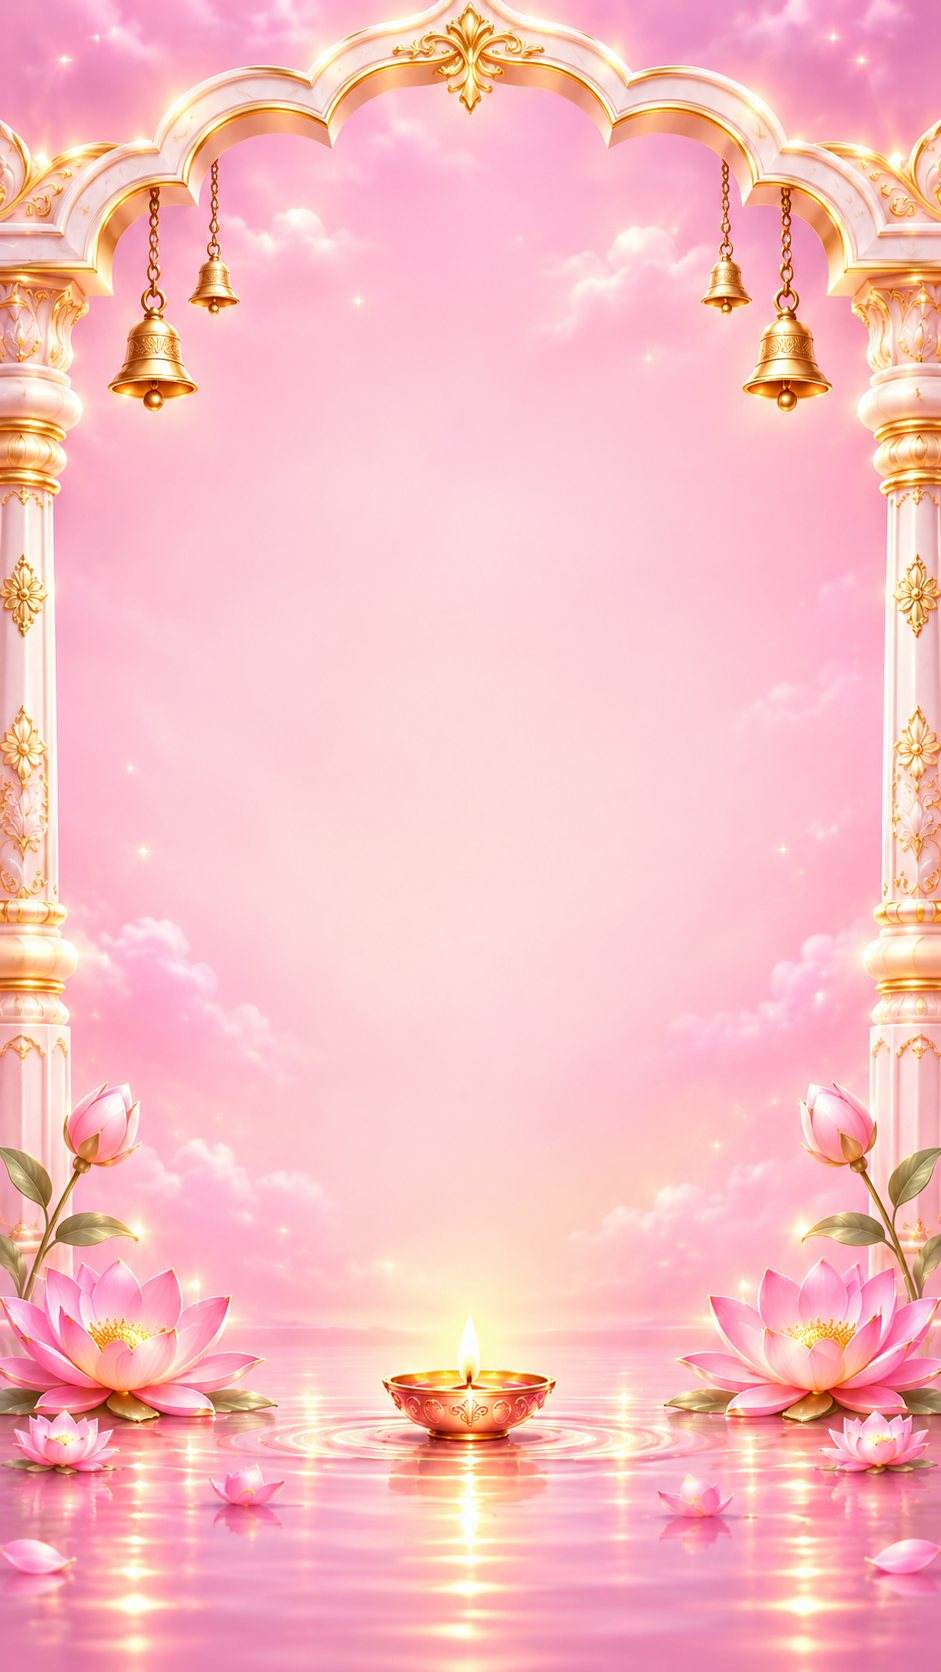
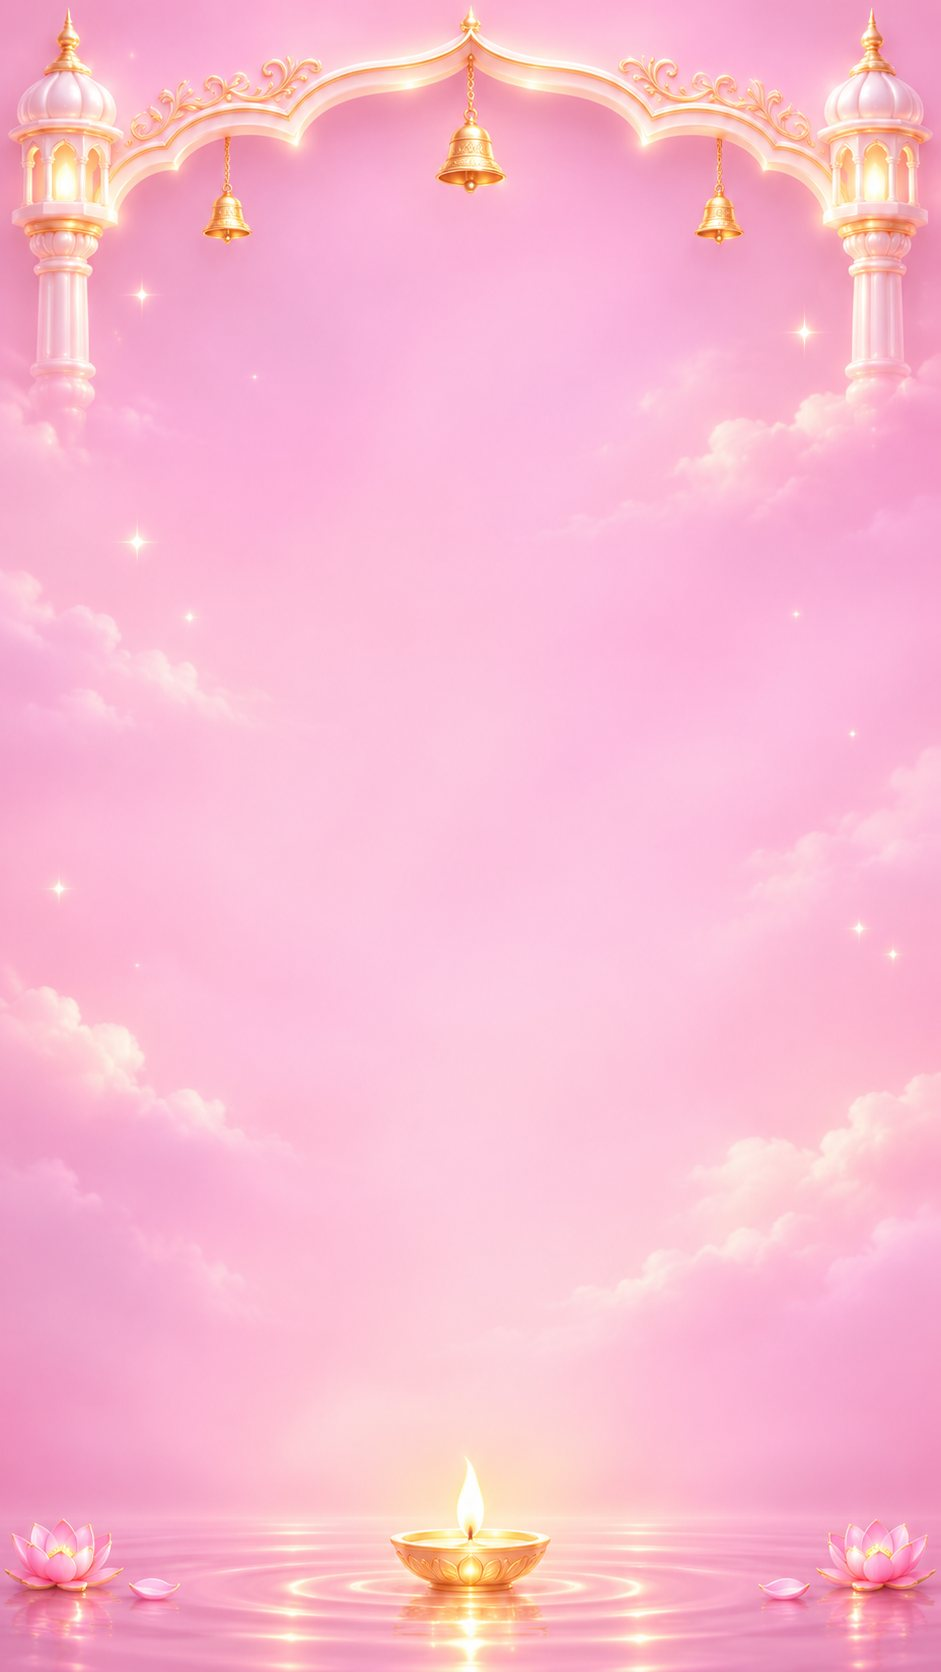
નવું બેકગ્રાઉન્ડ, સ્ક્રીન પ્રમાણે મોટી ફ્રેમ, એક દિવસે ઘણા જન્મદિવસ માટે સ્લાઇડ
Claude-Session: https://claude.ai/code/session_01Qxn7f5UeCfqQK63dvwyw3h

diff --git a/index.html b/index.html
@@ -210,13 +210,13 @@ textarea.inp{min-height:120px;resize:vertical;line-height:1.5}
     <img class="deco" src="lotus.png" alt="" data-b="40,318,150,105"><img class="deco" src="lotus.png" alt="" data-b="751,318,150,105" style="transform:scaleX(-1)">
     <div class="big-t" data-b="40,222,861,100" data-fs="74">જન્મદિન મંગલોત્સવ</div>
     <img class="deco" src="divider.png" alt="" data-b="280,318,381,41">
-    <div class="card" data-b="24,380,893,1118"></div>
+    <div class="card" id="hCard" data-b="24,380,893,1118"></div>
     <div id="lbl"></div>
     <button class="photo" id="hPhoto" aria-label="ફટાકડા" data-b="244,586,440,440"></button>
-    <img class="deco" src="frame.png" alt="" data-b="120,470,700,640">
+    <img class="deco" id="hFrame" src="frame.png" alt="" data-b="120,470,700,640">
     <div id="hSwipe"></div>
-    <div class="big-t" data-b="40,1108,861,86" data-fs="66">જન્મદિન મંગલમય હો!</div>
-    <img class="deco" src="divider.png" alt="" data-b="320,1190,301,32">
+    <div class="big-t" id="hTitle" data-b="40,1108,861,86" data-fs="66">જન્મદિન મંગલમય હો!</div>
+    <img class="deco" id="hDiv" src="divider.png" alt="" data-b="320,1190,301,32">
     <div class="namepill2" id="hName" data-b="216,1228,509,78" data-fs="42"></div>
     <div class="mtext" id="hDate" data-b="170,1312,601,48" data-fs="33" style="color:#5a1033;font-weight:700"></div>
     <button class="sendbtn" id="hSend" data-b="66,1372,809,104" data-fs="40">🙏 <i>|</i> મંગલ શુભકામનાઓ પાઠવો <b style="margin-left:.3em">›</b></button>
@@ -335,27 +335,49 @@ function layoutStage(st){const k=st.clientWidth/941;st.style.setProperty('--k',k
   st.querySelectorAll('[data-b]').forEach(el=>{const [x,y,w,h]=el.dataset.b.split(',').map(Number);
     Object.assign(el.style,{left:x*k+'px',top:y*k+'px',width:w*k+'px',height:h*k+'px'});if(el.dataset.fs)el.style.fontSize=el.dataset.fs*k+'px'})}
 function layoutAll(){document.querySelectorAll('.stage').forEach(layoutStage)}
-addEventListener('resize',layoutAll);
+addEventListener('resize',()=>{if(window._booted)renderHome();layoutAll()});
 document.querySelectorAll('.headslot').forEach(s=>s.replaceWith($('headTpl').content.cloneNode(true)));
 
 /* ---------- HOME ---------- */
-let hIdx=0,hList=[],hTimer=null;
+let G={};
+function homeGeom(){
+  const st=$('stage'),w=st.clientWidth||Math.min(innerWidth,470),k=w/941,vh=innerHeight;
+  const bgS=Math.max(vh/1672,innerWidth/941);            // fixed bg is 'cover', anchored at bottom
+  const diyaTopPx=vh-(1672-1450)*bgS;                    // flame top of the diya in the background
+  const target=(diyaTopPx-10)/k;                         // card bottom (image units)
+  let F=700+(target-1498)*1312/1199;F=Math.max(560,Math.min(880,F));
+  const fh=F*1199/1312,fx=(941-F)/2,fy=470,by=fy+fh,c=F/1312;
+  G={fx,fy,F,fh,px:fx+(645-410)*c,py:fy+(630-410)*c,pd:820*c,by};
+  const set=(id,b)=>{$(id).dataset.b=b.map(Math.round).join(',')};
+  set('hFrame',[fx,fy,F,fh]);set('hPhoto',[G.px,G.py,G.pd,G.pd]);
+  set('hTitle',[40,by-2,861,86]);set('hDiv',[320,by+80,301,32]);
+  set('hName',[216,by+118,509,78]);set('hDate',[170,by+202,601,48]);set('hSend',[66,by+262,809,104]);
+  const cb=by+262+104+24;set('hCard',[24,380,893,cb-380]);st.dataset.h=Math.round(cb+10);
+}
+let hIdx=0,hList=[],hTimer=null,hUser=false;
+function hGo(d){if(hList.length<2)return;hUser=true;hIdx=(hIdx+d+hList.length)%hList.length;renderHome();const p=$('hPhoto');p.animate([{transform:`translateX(${d*40}px)`,opacity:.2},{transform:'none',opacity:1}],{duration:300,easing:'ease-out'})}
 function renderHome(){
   const T=today();const todays=MEMBERS.filter(m=>daysTo(m,T)===0);
   hList=todays.length?todays:[MEMBERS.slice().sort((a,b)=>daysTo(a,T)-daysTo(b,T))[0]];
   if(hIdx>=hList.length)hIdx=0;
-  const m=hList[hIdx],isT=todays.length>0;
-  $('lbl').innerHTML=`<div class="lbl2" data-b="${isT?'262,398,417,72':'192,398,557,72'}" data-fs="34"><svg viewBox="0 0 24 24" width="1.1em" height="1.1em" fill="none" stroke="#c2185b" stroke-width="2"><rect x="3" y="5" width="18" height="16" rx="3"/><path d="M3 10h18M8 3v4M16 3v4"/></svg>${isT?'આજનો જન્મદિવસ':'આગામી જન્મદિવસ · '+g(daysTo(m,T))+' દિવસ'}</div>`;
+  homeGeom();const m=hList[hIdx],isT=todays.length>0;
+  $('lbl').innerHTML=`<div class="lbl2" data-b="${isT?'262,398,417,72':'192,398,557,72'}" data-fs="34"><svg viewBox="0 0 24 24" width="1.1em" height="1.1em" fill="none" stroke="#c2185b" stroke-width="2"><rect x="3" y="5" width="18" height="16" rx="3"/><path d="M3 10h18M8 3v4M16 3v4"/></svg>${isT?(hList.length>1?'આજના જન્મદિવસ · '+g(hList.length):'આજનો જન્મદિવસ'):'આગામી જન્મદિવસ · '+g(daysTo(m,T))+' દિવસ'}</div>`;
   const s=photoSrc(m);
-  $('hPhoto').innerHTML=s?`<img src="${s}" alt="">`:`<span class="ini" style="font-size:${200*$('stage').clientWidth/941}px">${esc(initial(m.n))}</span>`;
+  $('hPhoto').innerHTML=s?`<img src="${s}" alt="">`:`<span class="ini" style="font-size:${G.pd*.45*$('stage').clientWidth/941}px">${esc(initial(m.n))}</span>`;
   $('hName').textContent=m.n;
   const k=$('stage').clientWidth/941;const fit=Math.min(42,Math.floor(960/Math.max(10,m.n.length)));$('hName').dataset.fs=fit;
   $('hDate').innerHTML=`<span><svg viewBox="0 0 24 24" width="1em" height="1em" fill="none" stroke="#c2185b" stroke-width="2" style="vertical-align:-.12em"><rect x="3" y="5" width="18" height="16" rx="3"/><path d="M3 10h18M8 3v4M16 3v4"/></svg> ${dstr(m)}${ageOk(m)?' · '+ageTxt(m):''}</span>`;
-  $('hSwipe').innerHTML=hList.length>1?`<button class="swipe" data-hs="-1" data-b="56,774,64,64">‹</button><button class="swipe" data-hs="1" data-b="821,774,64,64">›</button><div class="dots" data-b="300,1090,341,16">${hList.map((_,i)=>`<i class="${i===hIdx?'on':''}"></i>`).join('')}</div>`:'';
+  $('hSwipe').innerHTML=hList.length>1?`<button class="swipe" data-hs="-1" data-b="${Math.max(30,G.fx-10)},${G.py+G.pd/2-32},64,64">‹</button><button class="swipe" data-hs="1" data-b="${Math.min(847,G.fx+G.F-54)},${G.py+G.pd/2-32},64,64">›</button><div class="dots" data-b="300,${G.by-20},341,16">${hList.map((_,i)=>`<i class="${i===hIdx?'on':''}"></i>`).join('')}</div><div class="lbl2" data-b="${G.fx+G.F-150},${G.fy+40},120,52" data-fs="28">${g(hIdx+1)}/${g(hList.length)}</div>`:'';
   layoutStage($('stage'));
-  clearInterval(hTimer);if(hList.length>1)hTimer=setInterval(()=>{hIdx=(hIdx+1)%hList.length;renderHome()},5000);
+  clearInterval(hTimer);if(hList.length>1&&!hUser)hTimer=setInterval(()=>{hIdx=(hIdx+1)%hList.length;renderHome()},6000);
 }
-$('hPhoto').onclick=()=>celebrate(hList[hIdx].id);
+$('hPhoto').onclick=()=>{if(Date.now()-(window._sw||0)<400)return;celebrate(hList[hIdx].id)};
+(function(){let x0=null,y0=0;const st=$('stage');
+  st.addEventListener('touchstart',e=>{x0=e.touches[0].clientX;y0=e.touches[0].clientY},{passive:true});
+  st.addEventListener('touchend',e=>{if(x0===null)return;const dx=e.changedTouches[0].clientX-x0,dy=e.changedTouches[0].clientY-y0;x0=null;
+    if(Math.abs(dx)>45&&Math.abs(dx)>Math.abs(dy)*1.3){window._sw=Date.now();hGo(dx<0?1:-1)}},{passive:true});
+  document.addEventListener('keydown',e=>{if(!$('v-home').classList.contains('on'))return;if(e.key==='ArrowRight')hGo(1);if(e.key==='ArrowLeft')hGo(-1)});
+})();
 $('hSend').onclick=()=>celebrate(hList[hIdx].id);
 
 /* ---------- UPCOMING ---------- */
@@ -478,7 +500,7 @@ function renderAll(){renderHome();renderUp();renderCal();renderMembers();renderR
 document.addEventListener('click',e=>{
   const f=e.target.closest('[data-fly]');if(f){celebrate(f.dataset.fly);return}
   const ed=e.target.closest('[data-edit]');if(ed&&!e.target.closest('a')){openEdit(ed.dataset.edit);return}
-  const hs=e.target.closest('[data-hs]');if(hs){hIdx=(hIdx+(+hs.dataset.hs)+hList.length)%hList.length;renderHome();return}
+  const hs=e.target.closest('[data-hs]');if(hs){hGo(+hs.dataset.hs);return}
   const u=e.target.closest('[data-upf]');if(u){upF=+u.dataset.upf;renderUp();return}
   const mfb=e.target.closest('[data-mf]');if(mfb){mf=mfb.dataset.mf;renderMembers();return}
   const dy=e.target.closest('[data-day]');if(dy){const d=+dy.dataset.day;csel=csel===d?null:d;renderCal();return}
